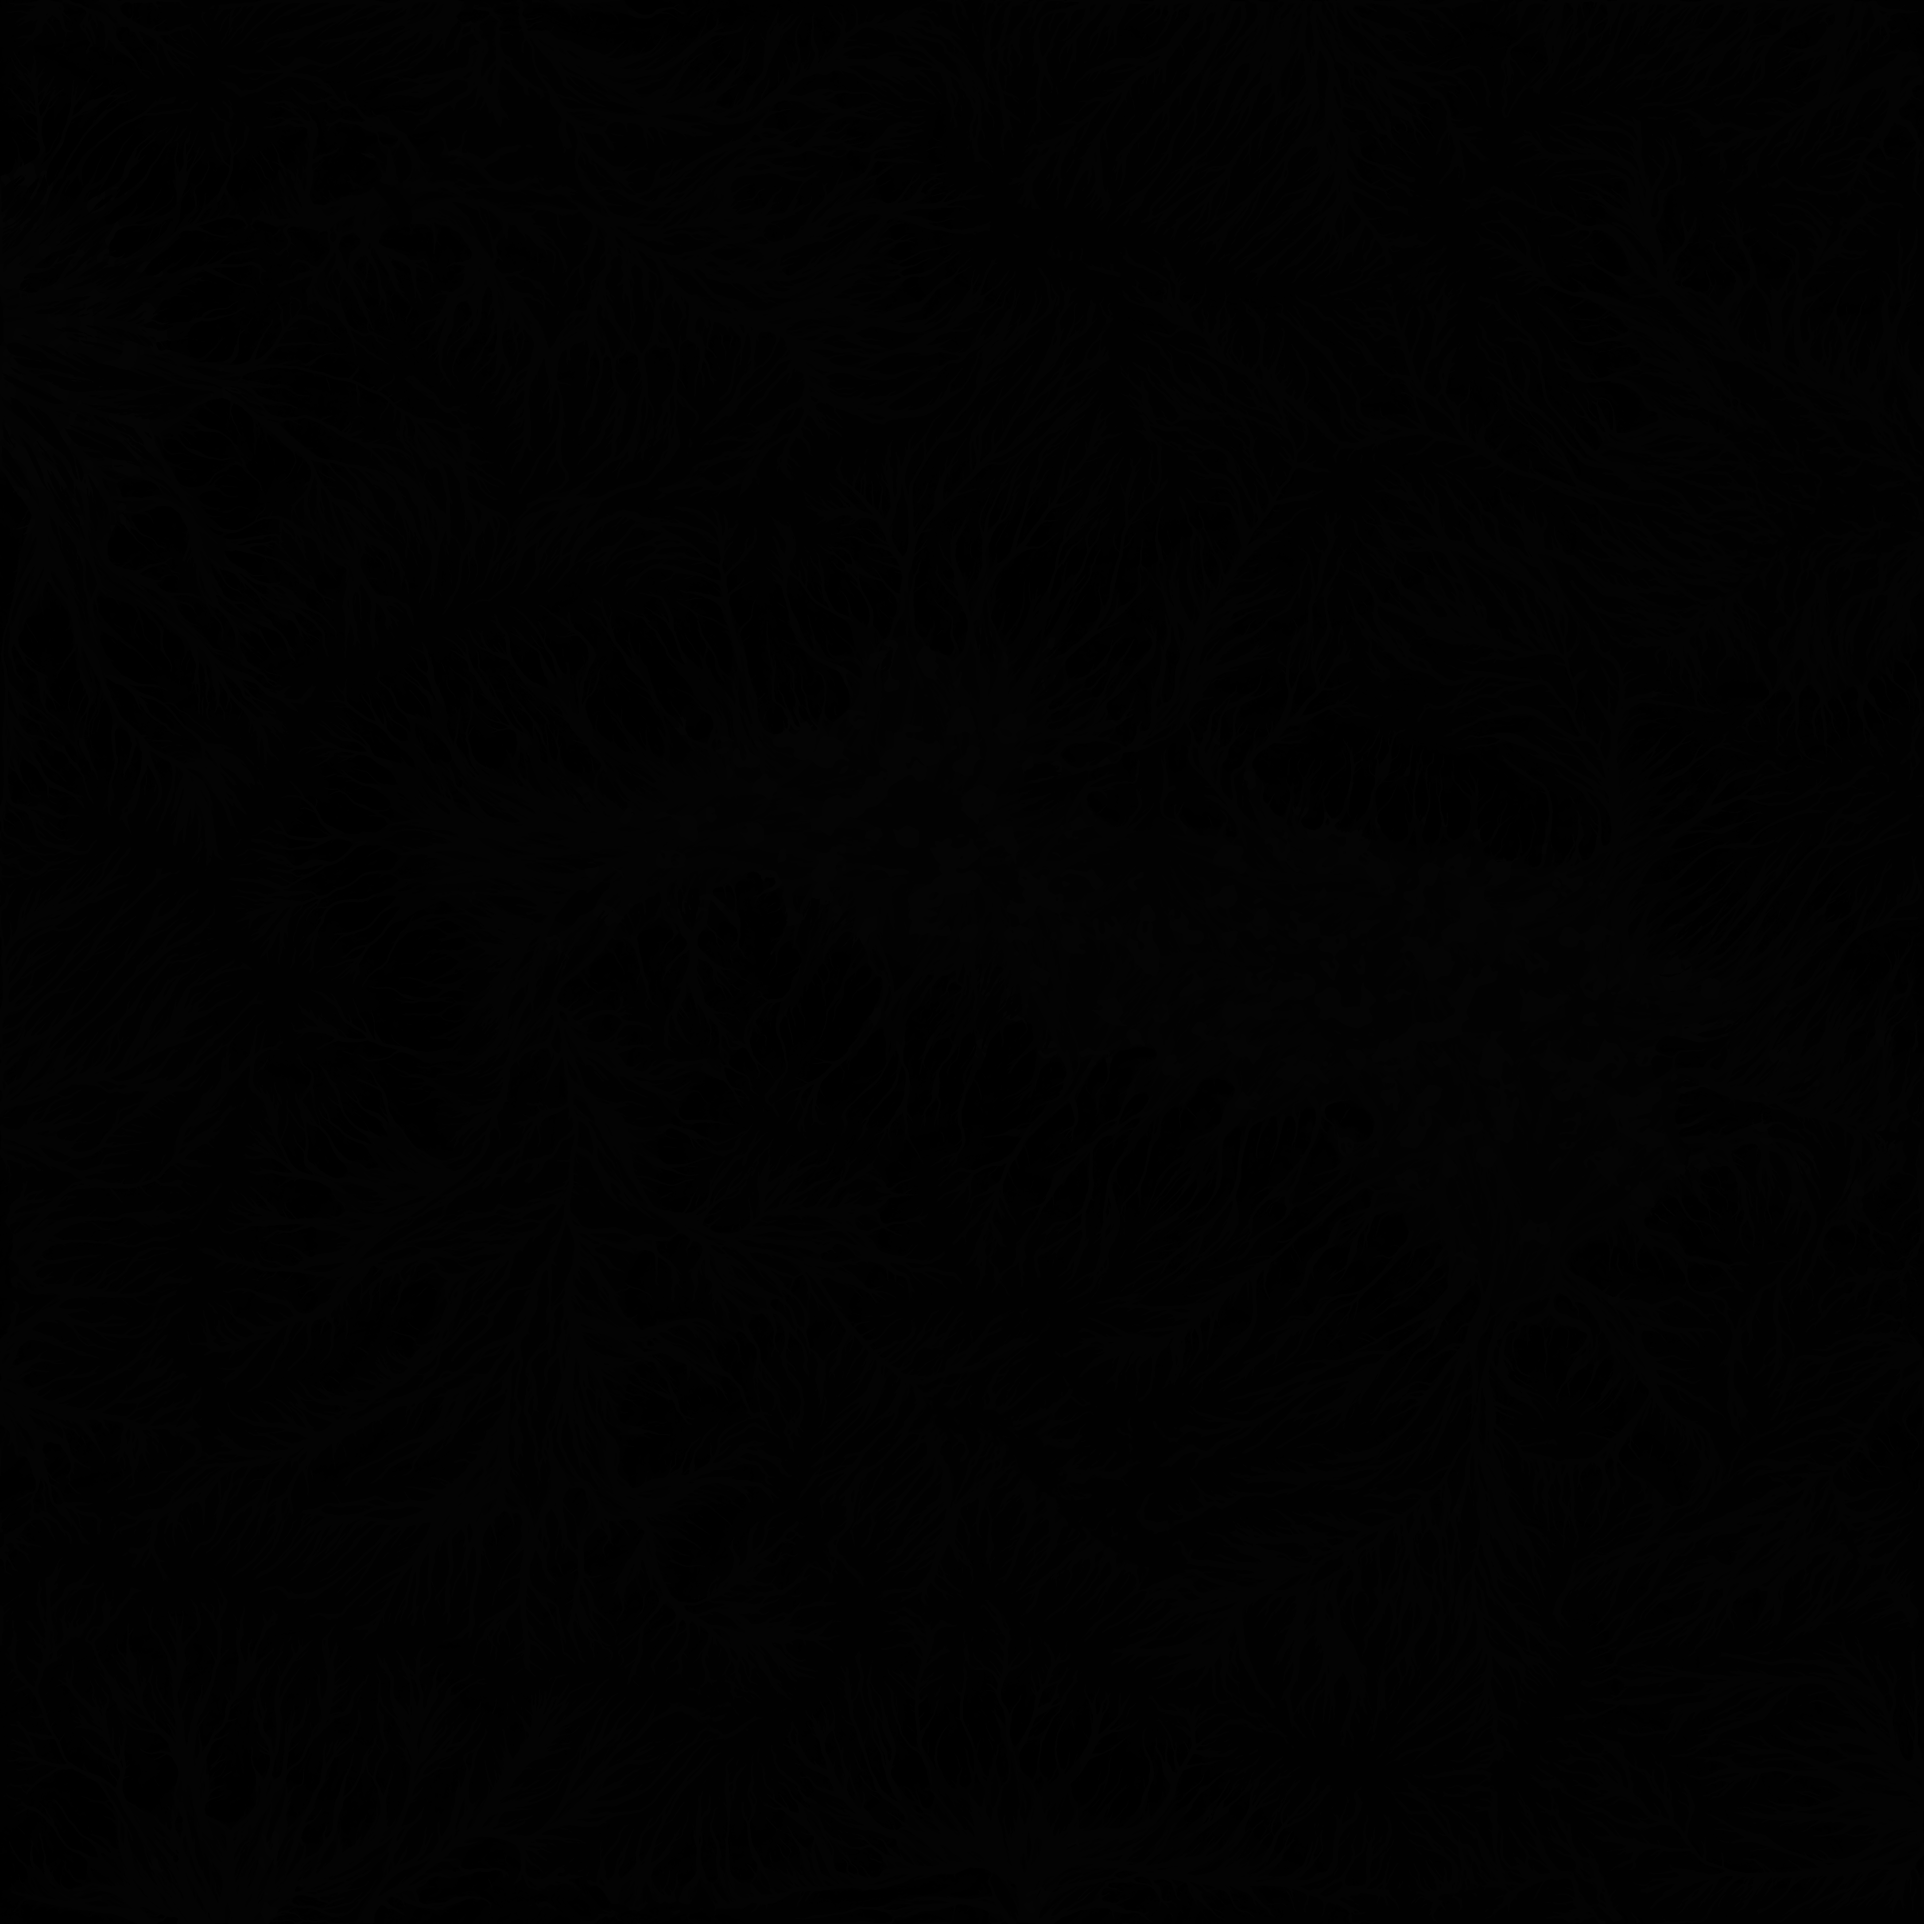
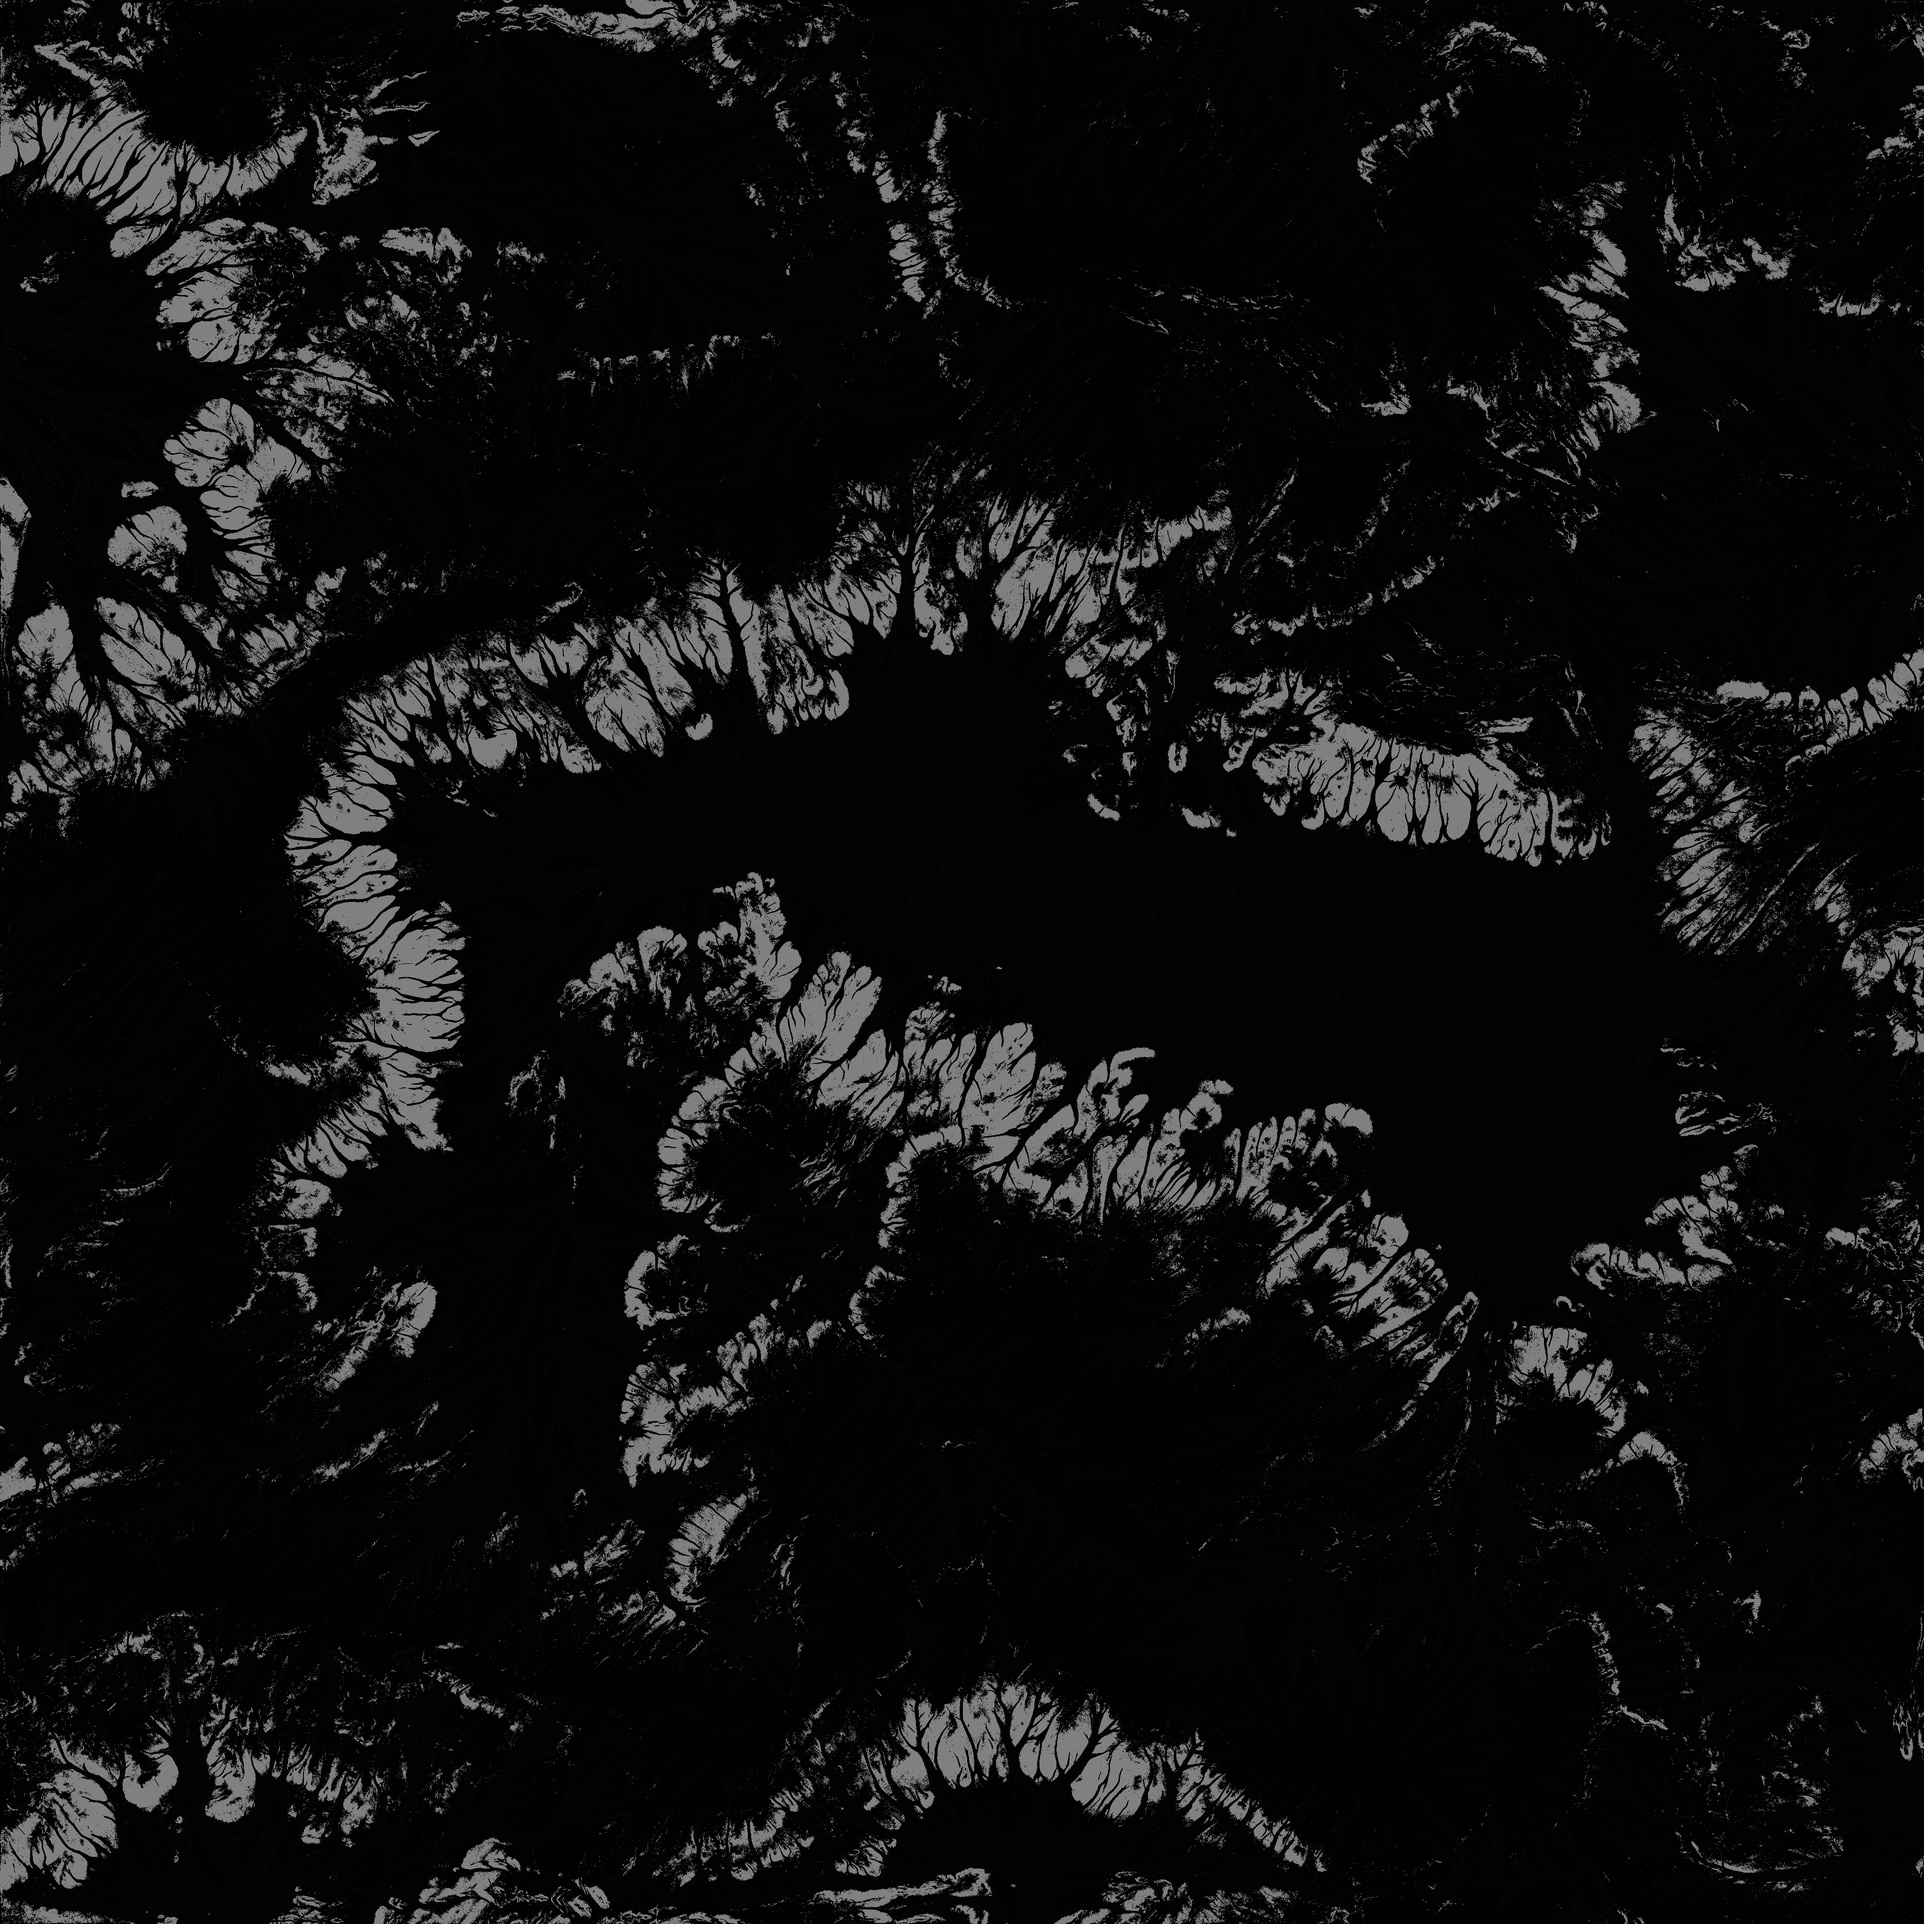
Triplanar support for material fetches

diff --git a/src/libraries/intern/Terrain/CBTGPU.cpp b/src/libraries/intern/Terrain/CBTGPU.cpp
@@ -303,6 +303,13 @@ void CBTGPU::drawUI()
     ImGui::Checkbox("Draw outline", &settings.drawOutline);
     ImGui::Checkbox("Freeze update", &settings.freezeUpdates);
     ImGui::Separator();
+    if(ImGui::DragFloat("Triplanar blending sharpness", &settings.triplanarSharpness, 0.05f, 0.0f, 10.0f))
+    {
+        drawShader.useProgram();
+        glUniform1f(
+            glGetUniformLocation(drawShader.getProgramID(), "triplanarSharpness"),
+            settings.triplanarSharpness);
+    }
     if(ImGui::SliderFloat("Material normal intensity", &settings.materialNormalIntensity, 0.0f, 1.0f))
     {
         drawShader.useProgram();

diff --git a/src/libraries/intern/Terrain/CBTGPU.h b/src/libraries/intern/Terrain/CBTGPU.h
@@ -102,7 +102,8 @@ class CBTGPU
         bool drawOutline = false;
         bool freezeUpdates = false;
         int selectedSubdivLevel = 0;
-        float materialNormalIntensity = 0.3f;
+        float triplanarSharpness = 0.5f;
+        float materialNormalIntensity = 1.0f;
         float materialDisplacementIntensity = 0.0f;
         int materialDisplacementLodOffset = 0;
     } settings;
